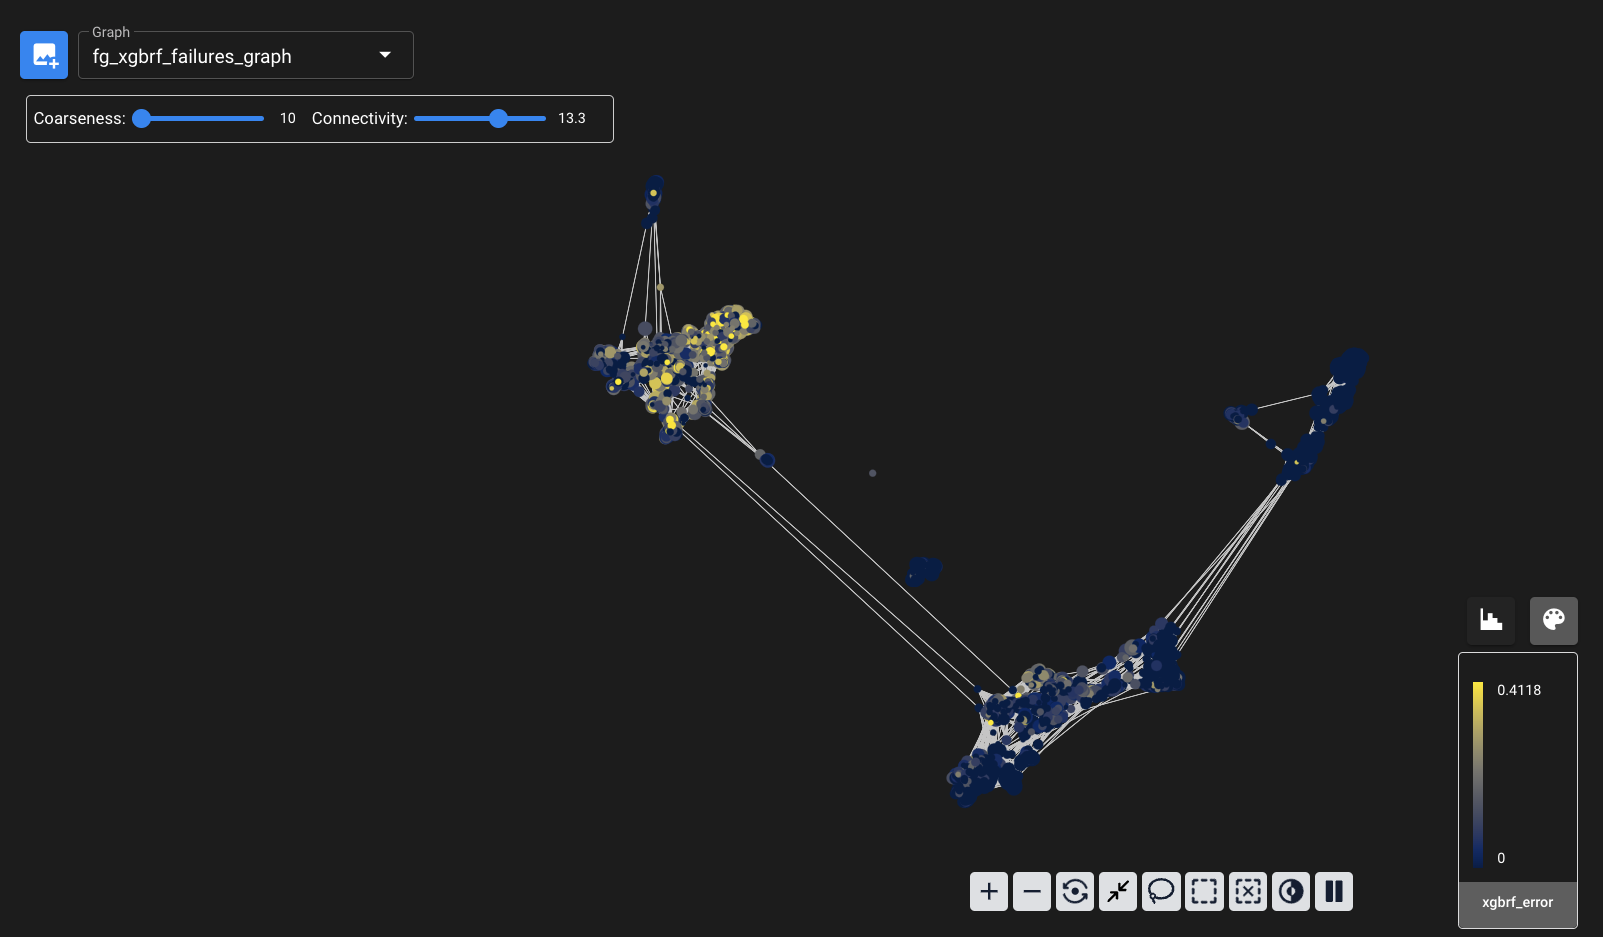
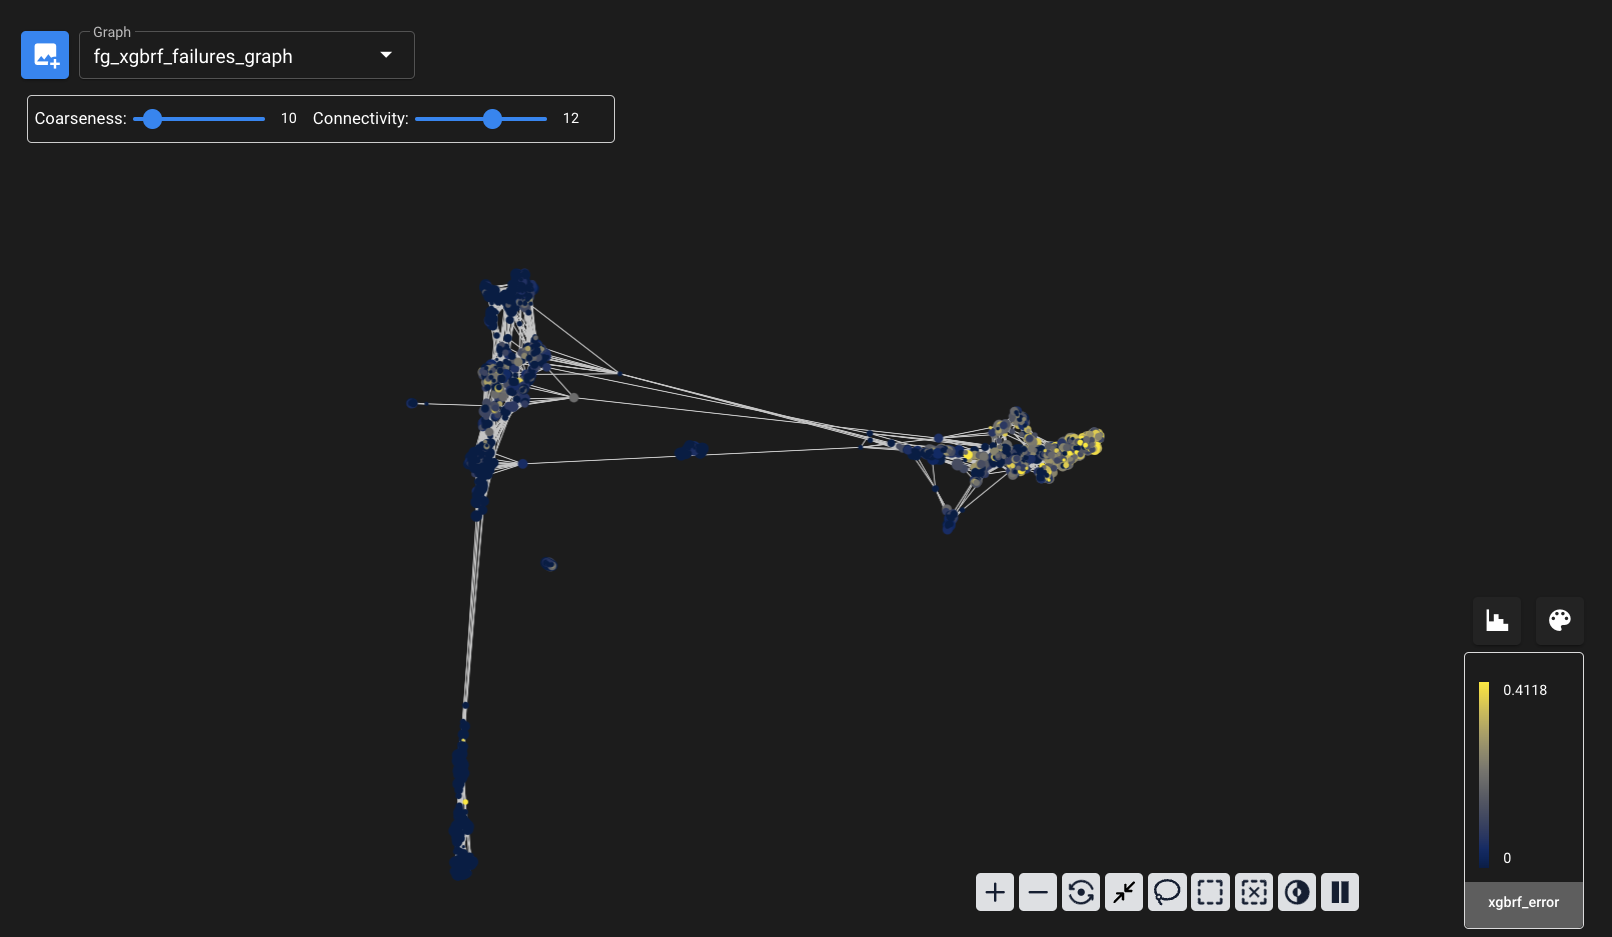
Updated Cobalt comparison to use only training data

diff --git a/census_income/main/main.py b/census_income/main/main.py
@@ -189,6 +189,7 @@ print(f'Overall recall for XGBoost Random Forest model (training): '
     f'{xgbrf_train_recall:.4f}')
 print(f'ROC AUC for XGBoost Random Forest model (training): '
     f'{xgbrf_train_auc:.4f}\n')
+
 print(f'Overall accuracy for XGBoost Random Forest model (validation): '
     f'{xgbrf_model.score(X_val, y_val):.4f}')
 print(f'Overall precision for XGBoost Random Forest model (validation): '
@@ -252,9 +253,14 @@ mapper.visualize(
 
 #%%
 # Prepare Cobalt dataframe
-cobalt_df = pd.DataFrame(X)
-y_pred = pd.DataFrame(xgbrf_model.predict(X))
-cobalt_df['y_true'] = pd.Series(y[0].astype(bool), dtype='category')
+X_cobalt = X_train.reset_index(drop=True)
+y_cobalt = y_train.reset_index(drop=True)
+
+cobalt_df = pd.DataFrame(X_cobalt).reset_index(drop=True)
+y_true = pd.DataFrame(y_cobalt).reset_index(drop=True)
+y_pred = pd.DataFrame(xgbrf_model.predict(X_cobalt)).reset_index(drop=True)
+
+cobalt_df['y_true'] = pd.Series(y_true[0].astype(bool), dtype='category')
 cobalt_df['y_pred'] = pd.Series(y_pred[0].astype(bool), dtype='category')
 
 #%%
@@ -273,12 +279,12 @@ ds.compute_model_performance_metrics()
 
 #%%
 # Create Cobalt embedding
-xgbrf_emb = xgbrf_model.apply(X)
+xgbrf_emb = xgbrf_model.apply(X_cobalt)
 ds.add_embedding_array(xgbrf_emb, metric='euclidean', name='xgbrf_emb')
 
 #%%
 # Instantiate Cobalt workspace
-split = cobalt.DatasetSplit(ds, {'train': X_train.index, 'val': X_val.index, 'test': X_test.index})
+split = cobalt.DatasetSplit(ds, {'train': X_cobalt.index})
 w = cobalt.Workspace(ds, split)
 
 #%%

diff --git a/README.md b/README.md
@@ -3,13 +3,13 @@ THE SHAPE OF 1994 US CENSUS BUREAU INCOMES FROM THE UC-IRVINE MACHINE LEARNING R
 
 Abstract
 
-Topological data analysis (TDA) is a group of methods and techniques that can be used in the context of both exploratory and explanatory data analysis. The Kepler Mapper algorithm from Scikit-TDA is applied to the training set and its predictions as output by an XGBoost classifier evaluated on a validation set to investigate how well the baseline model performs on the target of interest (i.e., earning <= $50K or > $50K) and to visualize those areas where it might misclassify out-of-sample results before utilizing any testing set data to make such determinations. The goal for the analyst is to have a prior understanding of the salient discriminative variables and the potential confounding variables to guide early model development. For comparison, the Cobalt package from BluelightAI is applied to the full data from the training, validation, and testing sets to see what additional information can be gained about the model errors using a *post hoc* approach. Other suggested improvements to the baseline model include categorical feature embeddings, probability calibration, and decision threshold tuning.
+Topological data analysis (TDA) is a group of methods and techniques that can be used in the context of both exploratory and explanatory data analysis. The Kepler Mapper algorithm from Scikit-TDA is applied to the training set and its predictions as output by an XGBoost classifier evaluated on a validation set to investigate how well the baseline model performs on the target of interest (i.e., earning <= $50K or > $50K) and to visualize those areas where it might misclassify out-of-sample results before utilizing any testing set data to make such determinations. The goal for the analyst is to have a prior understanding of the salient discriminative variables and the potential confounding variables to guide early model development. For comparison, the Cobalt package from BluelightAI is also applied to the training set to see what additional information can be gained about the model errors. Other suggested improvements to the baseline model include categorical feature embeddings, probability calibration, decision threshold tuning, and *post hoc* analysis of model errors using the full data from the training, validation, and testing sets.
 
 ![scikit_tda_img](./census_income/images/scikit_tda_img.png)
 Figure 1. XGBoost model error mapping on training set using Scikit-TDA package (see: https://github.com/scikit-tda)
 
 ![cobalt_tda_img](census_income/images/cobalt_tda_img.png)
-Figure 2. XGBoost model error mapping on training, validation, and testing sets using Cobalt package (see: https://github.com/BlueLightAI)
+Figure 2. XGBoost model error mapping on training set using Cobalt package (see: https://github.com/BlueLightAI)
 
 Dataset Citation:
 
